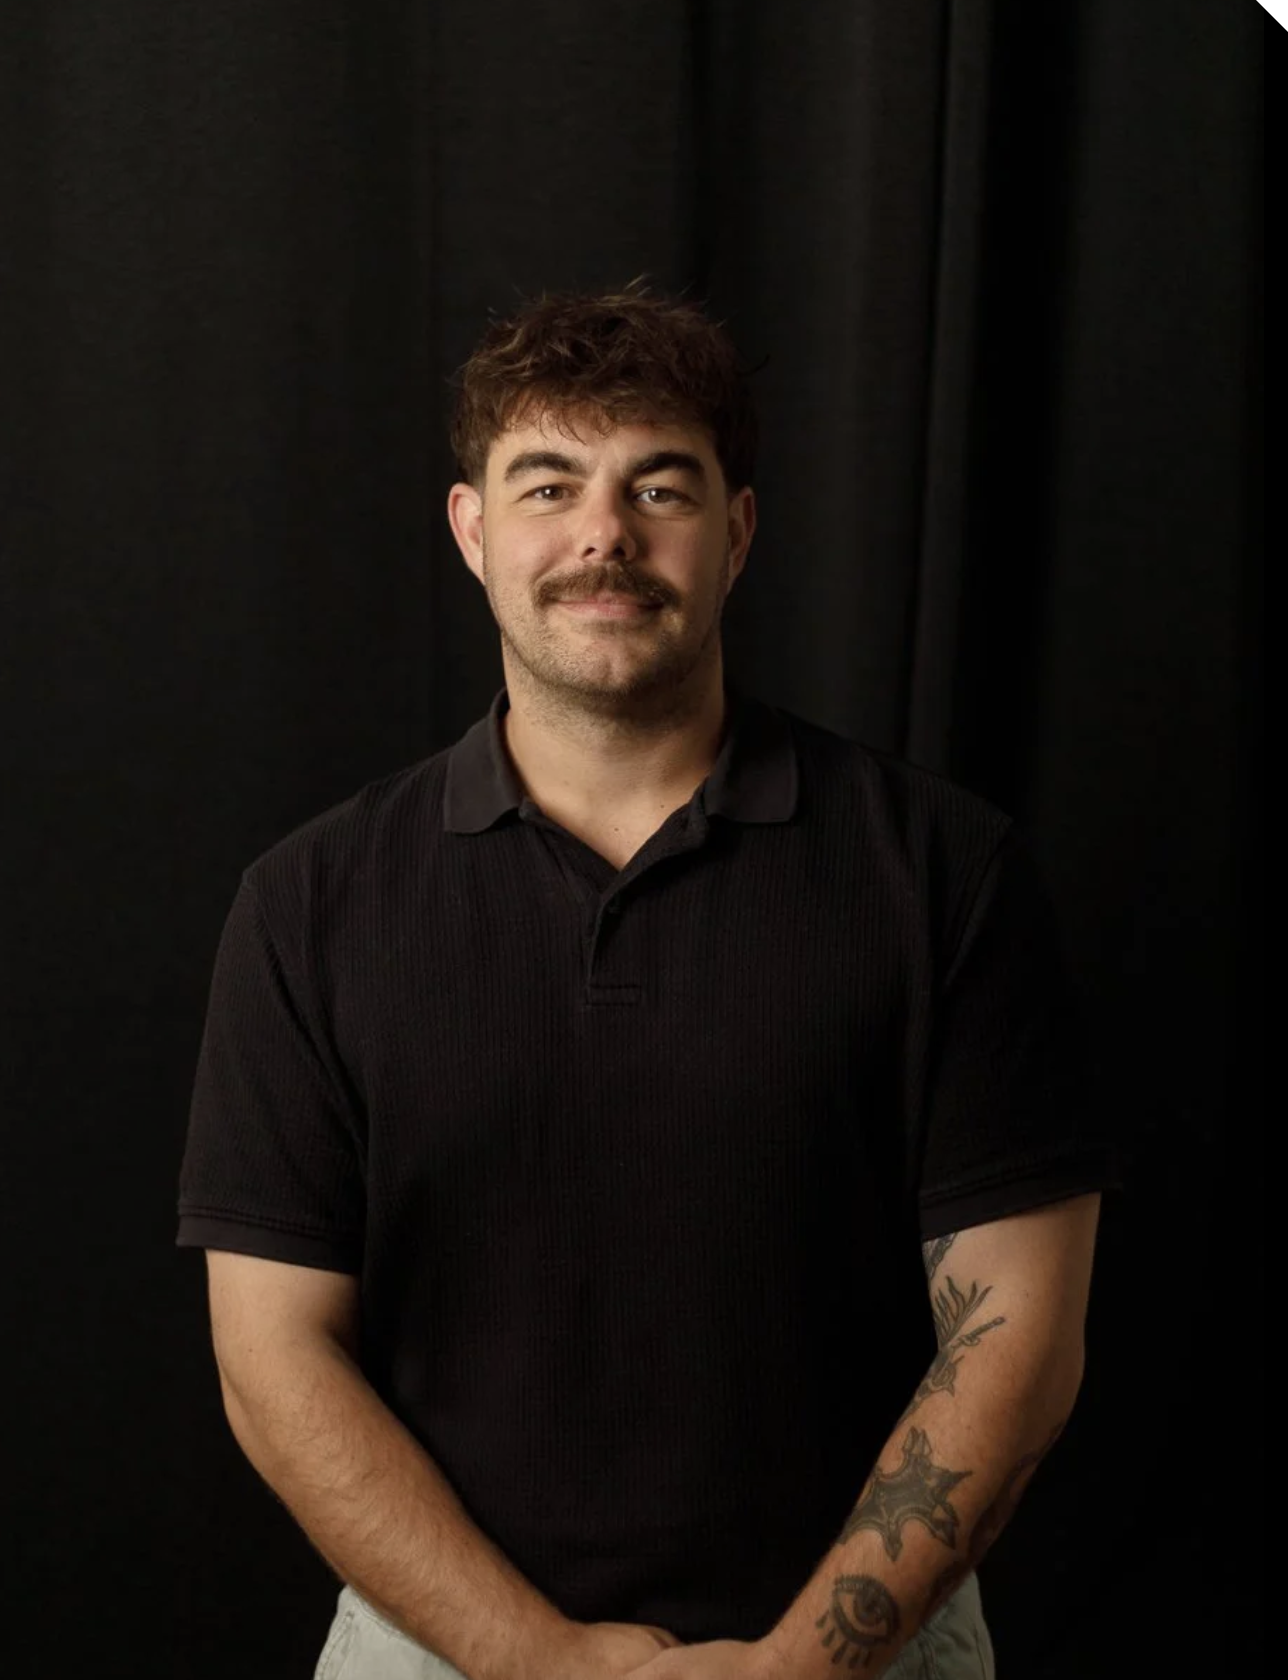
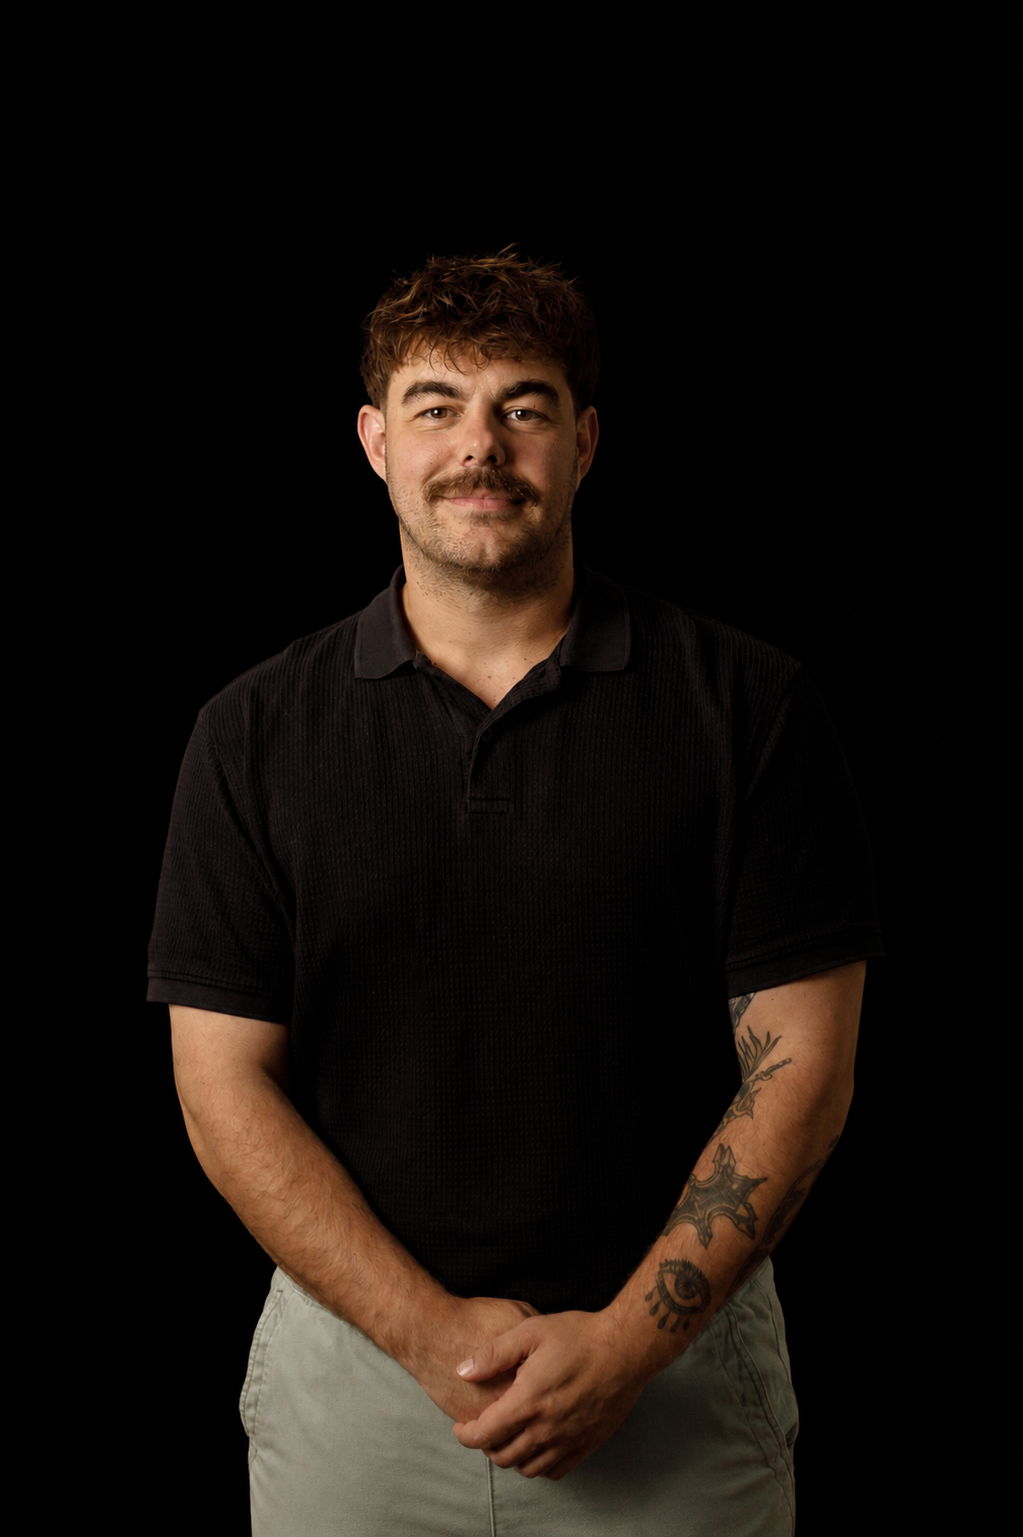
Update profile photo and offer pastilles

diff --git a/styles.css b/styles.css
@@ -432,14 +432,11 @@ h3 {
   background: #000;
 }
 
-.offer-icon svg {
-  width: 58%;
-  height: 58%;
-  fill: none;
-  stroke: #fff;
-  stroke-width: 3;
-  stroke-linecap: round;
-  stroke-linejoin: round;
+.offer-icon img {
+  display: block;
+  width: 62%;
+  height: 62%;
+  object-fit: contain;
 }
 
 .offer-card h3 {

diff --git a/en.html b/en.html
@@ -114,15 +114,16 @@
         <div class="offer-grid">
           <article class="offer-card">
             <span class="offer-icon" aria-hidden="true">
-              <svg viewBox="0 0 64 64" role="img"><path d="M18 45c4-12 24-12 28 0M24 24h16M20 31h24M25 24c1-8 13-8 14 0M28 18v-6h8v6M16 45h32M22 45l-3 9M42 45l3 9"/></svg>
+              <img src="assets/pastille-miner.png" alt="">
             </span>
             <h3>Prospecting workshop</h3>
             <p>Build discipline around acquiring new customers.</p>
             <p>Frame the right prospecting practices and the opportunities available internally.</p>
+            <p>Set up a simple daily prospecting routine: who to contact, when to follow up, what to say, and how to keep momentum even when the showroom is quiet.</p>
           </article>
           <article class="offer-card">
             <span class="offer-icon" aria-hidden="true">
-              <svg viewBox="0 0 64 64" role="img"><path d="M23 18c6 15 8 17 23 23l-6 8c-17-6-25-14-31-31l8-6 6 6ZM38 15c7 2 11 6 13 13M36 26c2 1 4 3 5 5M41 6c10 3 17 10 20 20"/></svg>
+              <img src="assets/pastille-phone.png" alt="">
             </span>
             <h3>Sales process reinforcement</h3>
             <p><em>Clearly determine the steps of your sales process.</em></p>
@@ -131,7 +132,7 @@
           </article>
           <article class="offer-card">
             <span class="offer-icon" aria-hidden="true">
-              <svg viewBox="0 0 64 64" role="img"><path d="M32 53V19M20 53h24M26 19l6-8 6 8M38 18h12v15H38M24 33c-8 2-12 8-12 17h24c0-9-4-15-12-17Z"/></svg>
+              <img src="assets/pastille-conquest.png" alt="">
             </span>
             <h3>Set daily goals</h3>
             <p><em>Implement clear goals oriented toward action.</em></p>
@@ -140,7 +141,7 @@
           </article>
           <article class="offer-card">
             <span class="offer-icon" aria-hidden="true">
-              <svg viewBox="0 0 64 64" role="img"><path d="M11 18c9 6 19 6 28 0v19c0 10-7 17-14 17S11 47 11 37V18ZM39 23c5 2 10 1 16-3v17c0 8-5 14-11 15M19 32h1M31 32h1M19 42c4 4 9 4 13 0M46 32h1"/></svg>
+              <img src="assets/pastille-theatre-mask.png" alt="">
             </span>
             <h3>Role play</h3>
             <p>This is where we practice the show. We test and play with every possible variable.</p>

diff --git a/index.html b/index.html
@@ -114,15 +114,16 @@
         <div class="offer-grid">
           <article class="offer-card">
             <span class="offer-icon" aria-hidden="true">
-              <svg viewBox="0 0 64 64" role="img"><path d="M18 45c4-12 24-12 28 0M24 24h16M20 31h24M25 24c1-8 13-8 14 0M28 18v-6h8v6M16 45h32M22 45l-3 9M42 45l3 9"/></svg>
+              <img src="assets/pastille-miner.png" alt="">
             </span>
             <h3>Atelier de prospection</h3>
             <p>Développer une discipline autour de la conquête de nouveaux clients.</p>
             <p>Cadrer les bonnes pratiques de prospection et les opportunités disponibles à l’interne.</p>
+            <p>Mettre en place une routine simple de prospection quotidienne: qui contacter, quand relancer, quoi dire et comment garder le rythme même quand le plancher est tranquille.</p>
           </article>
           <article class="offer-card">
             <span class="offer-icon" aria-hidden="true">
-              <svg viewBox="0 0 64 64" role="img"><path d="M23 18c6 15 8 17 23 23l-6 8c-17-6-25-14-31-31l8-6 6 6ZM38 15c7 2 11 6 13 13M36 26c2 1 4 3 5 5M41 6c10 3 17 10 20 20"/></svg>
+              <img src="assets/pastille-phone.png" alt="">
             </span>
             <h3>Renforcement des processus de ventes</h3>
             <p><em>Déterminer concrètement les étapes de ton processus de ventes.</em></p>
@@ -131,7 +132,7 @@
           </article>
           <article class="offer-card">
             <span class="offer-icon" aria-hidden="true">
-              <svg viewBox="0 0 64 64" role="img"><path d="M32 53V19M20 53h24M26 19l6-8 6 8M38 18h12v15H38M24 33c-8 2-12 8-12 17h24c0-9-4-15-12-17Z"/></svg>
+              <img src="assets/pastille-conquest.png" alt="">
             </span>
             <h3>Établir des objectifs journaliers</h3>
             <p><em>L’implantation d’objectifs clairs orientés vers l’action.</em></p>
@@ -140,7 +141,7 @@
           </article>
           <article class="offer-card">
             <span class="offer-icon" aria-hidden="true">
-              <svg viewBox="0 0 64 64" role="img"><path d="M11 18c9 6 19 6 28 0v19c0 10-7 17-14 17S11 47 11 37V18ZM39 23c5 2 10 1 16-3v17c0 8-5 14-11 15M19 32h1M31 32h1M19 42c4 4 9 4 13 0M46 32h1"/></svg>
+              <img src="assets/pastille-theatre-mask.png" alt="">
             </span>
             <h3>Jeux de rôles</h3>
             <p>Ici, on pratique le show. On teste et on joue avec toutes les variables possibles.</p>